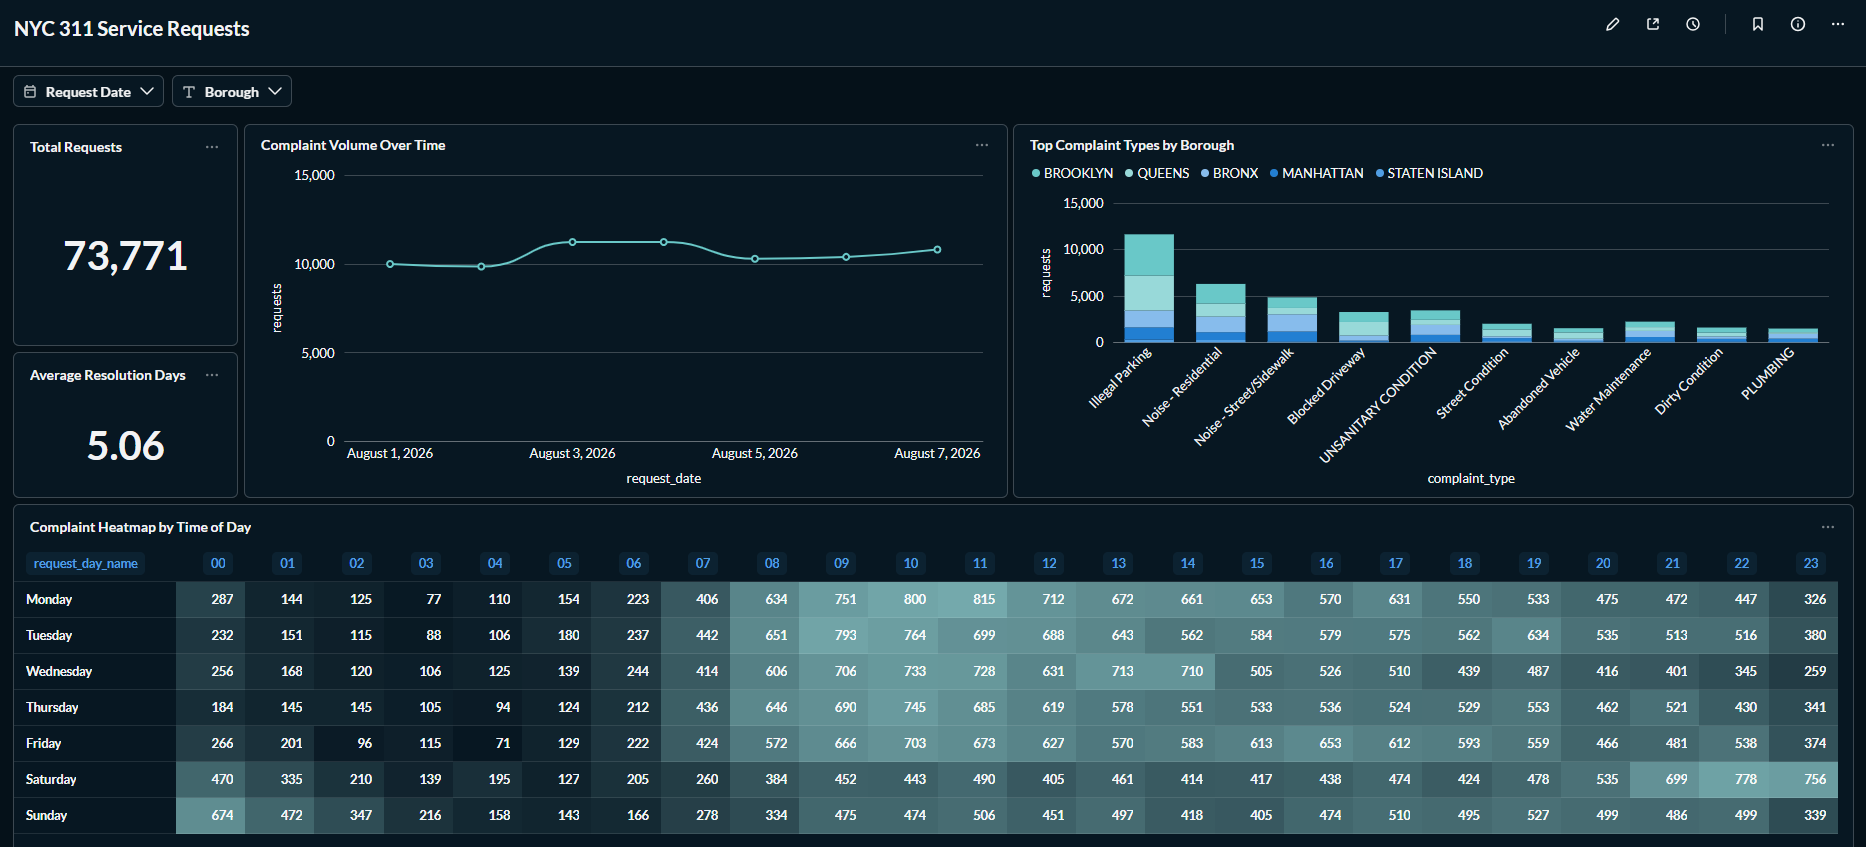
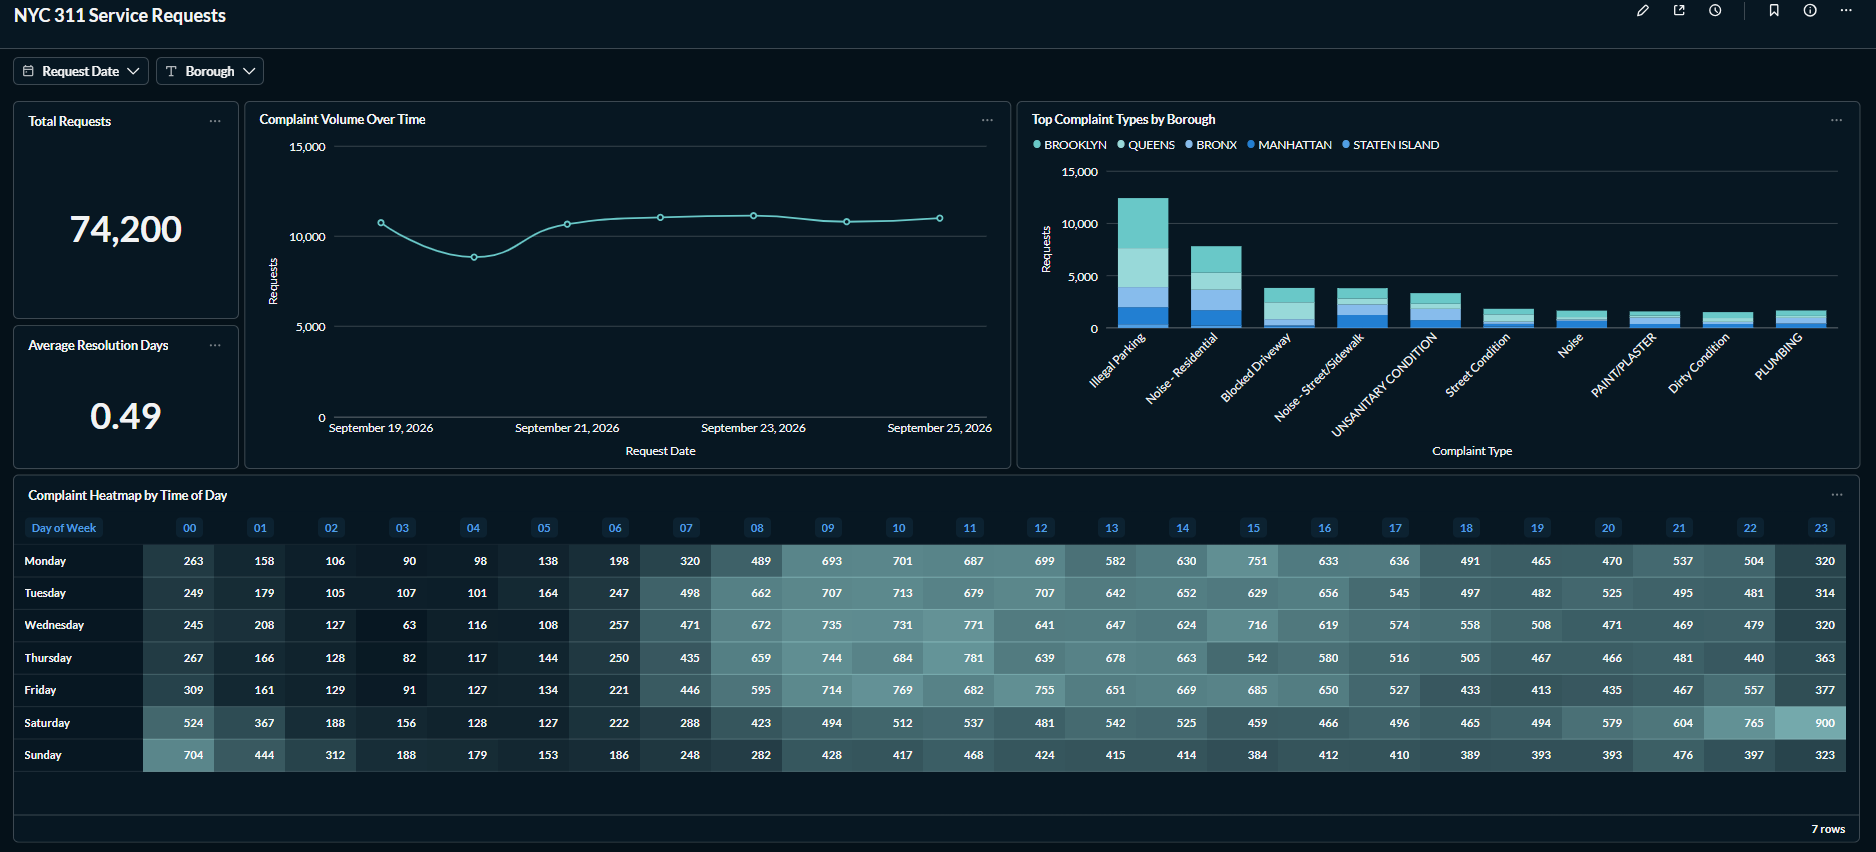
docs: update dashboard screenshot and rolling refresh results

diff --git a/README.md b/README.md
@@ -44,20 +44,16 @@ The project uses the [NYC 311 Service Requests dataset](https://data.cityofnewyo
 
 ## Verified results
 
-The September 25, 2026 **historical August 1–7 window** refresh produced:
+The September 27, 2026 local refresh selected **September 19–25, 2026** in New York local time (the upper bound, September 26 at 00:00, is excluded) and produced:
 
 | Check | Result |
 |---|---:|
-| Raw, staging and fact requests | 73,771 each |
-| Distinct complaint types | 154 |
-| Recognized borough | 73,695 |
-| Unspecified borough | 76 |
-| Coordinates in the approximate NYC rectangle | 72,404 |
-| Missing coordinates | 1,367 |
-| Present coordinates outside the rectangle | 0 |
+| Raw, staging and fact requests | 74,200 each |
+| Distinct complaint types | 157 |
+| Great Expectations validation | 7 passed, 0 failed |
 | dbt build | 20 passed, 0 warnings, 0 errors |
 
-The screenshot and these counts document the historical baseline, not expected values for a fresh rolling run. The API can revise existing requests; a rolling refresh also advances the reporting dates, so totals and resolution times will change.
+These counts and the screenshot below document this specific refresh; they are not fixed expected results. Each subsequent refresh selects a new seven-day window, so older dates leave the snapshot and newer dates enter it. The NYC 311 API can also revise requests already seen within the selected window. Therefore request counts, complaint types, chart values and resolution metrics may change even when a refresh completes successfully. A GitHub Actions run produces its own database artifact; updating the local Metabase dashboard requires a local refresh.
 
 ## Metabase dashboard
 
@@ -73,7 +69,7 @@ The local **NYC 311 Service Requests** dashboard has five views:
 
 Dashboard filters cover **Request Date** and **Borough**. The [dashboard guide](docs/dashboard-guide.md) links to five versioned SQL files in `dashboard/sql/` and provides the dimension join, visualization settings, filter connections, and complete query text needed to recreate the dashboard.
 
-The saved dashboard lives in the local Metabase application volume, which persists across container restarts. A fresh clone rebuilds the analytical data, then the [dashboard guide](docs/dashboard-guide.md) lets you recreate the five questions and their shared filters without that volume. The screenshot documents an earlier August window and will differ from new snapshots.
+The saved dashboard lives in the local Metabase application volume, which persists across container restarts. A fresh clone rebuilds the analytical data, then the [dashboard guide](docs/dashboard-guide.md) lets you recreate the five questions and their shared filters without that volume. The screenshot shows the September 19–25, 2026 local snapshot; its values will differ from later refreshes.
 
 ## Getting started
 

diff --git a/docs/dashboard-guide.md b/docs/dashboard-guide.md
@@ -140,6 +140,6 @@ END
 
 The source complaint type is not a taxonomy shared by all agencies. `UNSPECIFIED` indicates an unknown or unassigned borough, not a sixth borough; only the top complaint card excludes it by design. Missing/invalid closing timestamps are excluded only from the resolution average. Coordinate quality flags exist in the fact model but are not global filters.
 
-The screenshot in `dashboard/screenshots/` records an August 1–7, 2026 historical run; a fresh rolling run covers seven New York calendar days with a one-day source-delivery buffer. A refresh on September 27 selects September 19–25, avoiding the source's partial September 26 records. Check the extraction log for its exact `[start, end)` window.
+The screenshot in `dashboard/screenshots/` records the September 19–25, 2026 local refresh. A rolling refresh covers seven New York calendar days with a one-day source-delivery buffer; the September 27 run excluded the source's partial September 26 records. Later refreshes will show different dates and may show revised requests within the selected window. Check the extraction log for the exact `[start, end)` window.
 
 Metabase Open Source stores saved cards, dashboard layout and filter connections in its separate local application volume. A fresh clone does not import that state; the SQL and configuration above recreate the five views without access to the original volume. Do not remove the application volume if you want to preserve your saved dashboard.
